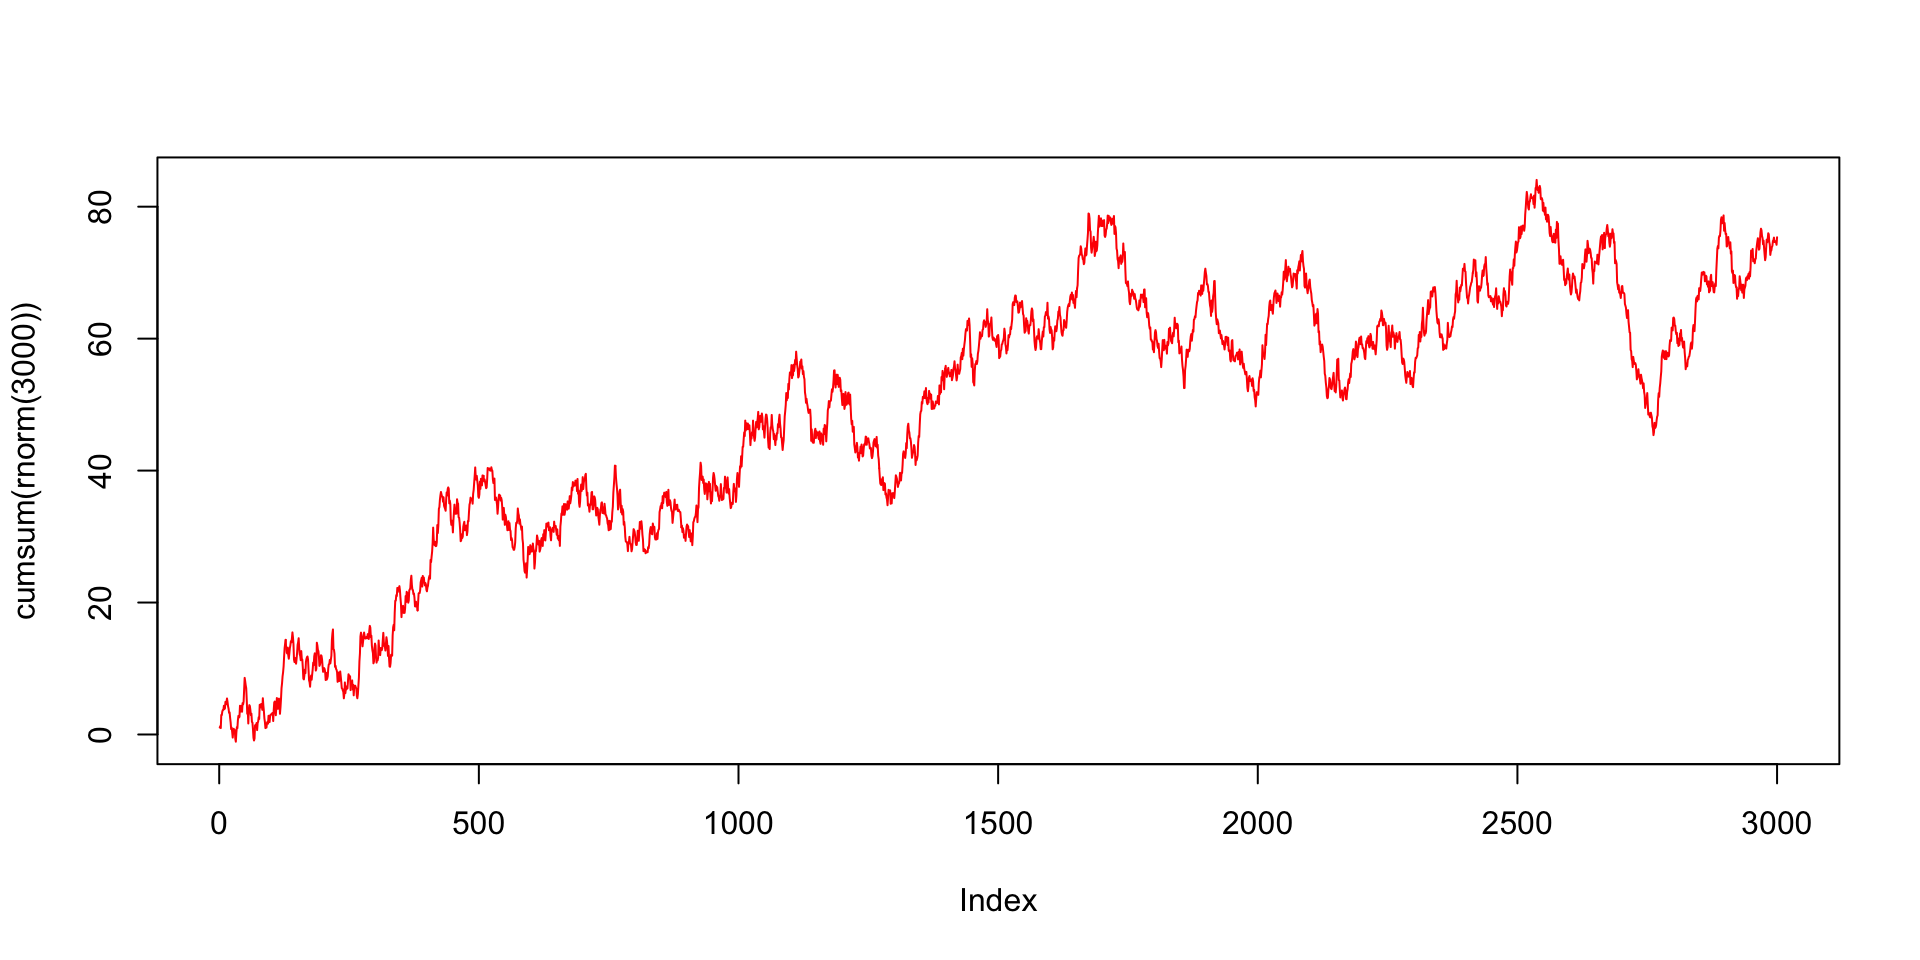
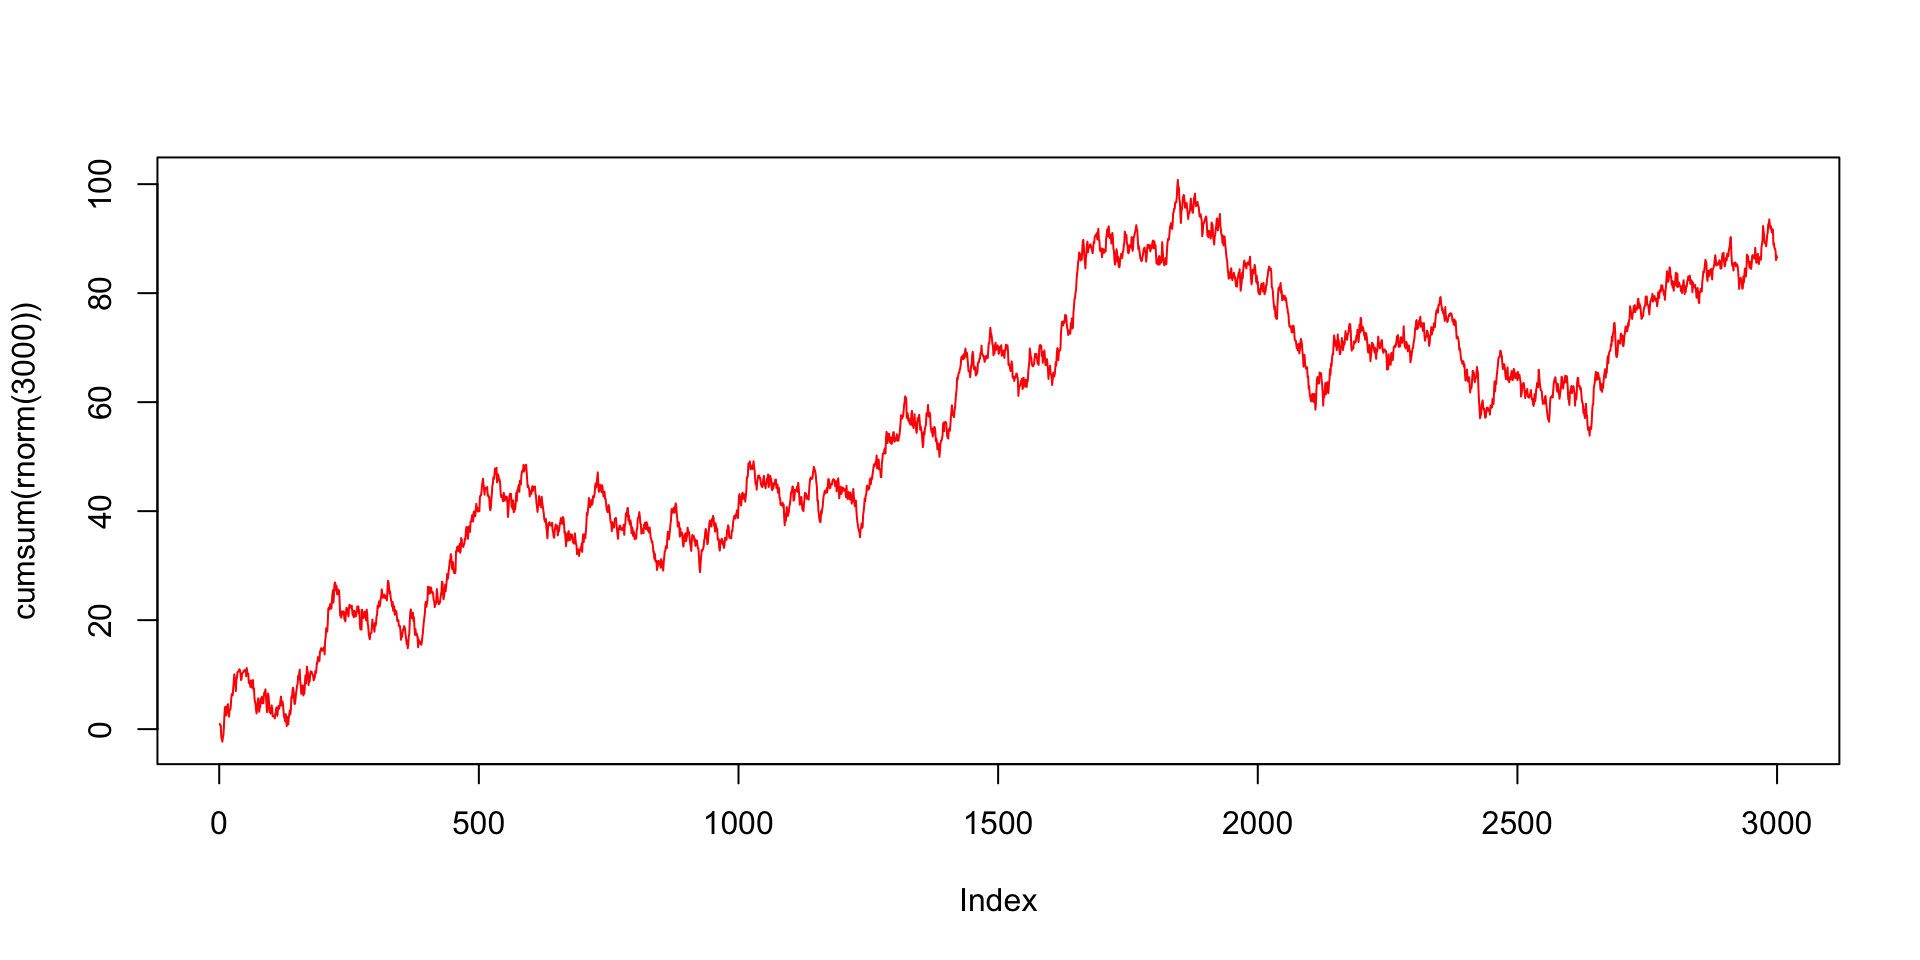
demo presentation updated

diff --git a/demo_pres.html b/demo_pres.html
@@ -211,22 +211,23 @@ Berry
 </section>
 <section id="slide-1" class="slide level2">
 <h2>slide 1</h2>
-<p><em>some</em> <strong>text</strong></p>
+<p>some <strong>bold</strong> or <em>italic</em> text with <code>code</code> formatting<br>
+line break with two spaces at the end<br>
+Have the Rstudio Presentation window large enough for the graph to appear!</p>
 <div class="cell">
 <div class="code-copy-outer-scaffold"><div class="sourceCode cell-code" id="cb1"><pre class="sourceCode numberSource r number-lines code-with-copy"><code class="sourceCode r"><span id="cb1-1"><a></a><span class="fu">plot</span>(<span class="fu">cumsum</span>(<span class="fu">rnorm</span>(<span class="dv">3000</span>)), <span class="at">type=</span><span class="st">"l"</span>, <span class="at">col=</span><span class="st">"red"</span>)</span></code></pre></div><button title="Copy to Clipboard" class="code-copy-button"><i class="bi"></i></button></div>
 
 </div>
 <img data-src="demo_pres_files/figure-revealjs/random_walk-1.png" width="960" class="r-stretch"><div class="fragment">
-<p>more text</p>
+<p>more text, always animated, even if <code>incremental: false</code></p>
 </div>
 </section>
 <section id="slide-2" class="slide level2">
 <h2>slide 2</h2>
 <ul>
-<li>stuff</li>
-<li>more things</li>
-<li>nice things</li>
-<li>I’m tired</li>
+<li class="fragment">some things</li>
+<li class="fragment">nice things</li>
+<li class="fragment">that show up incrementally (if set in the yaml header)</li>
 </ul>
 
 
